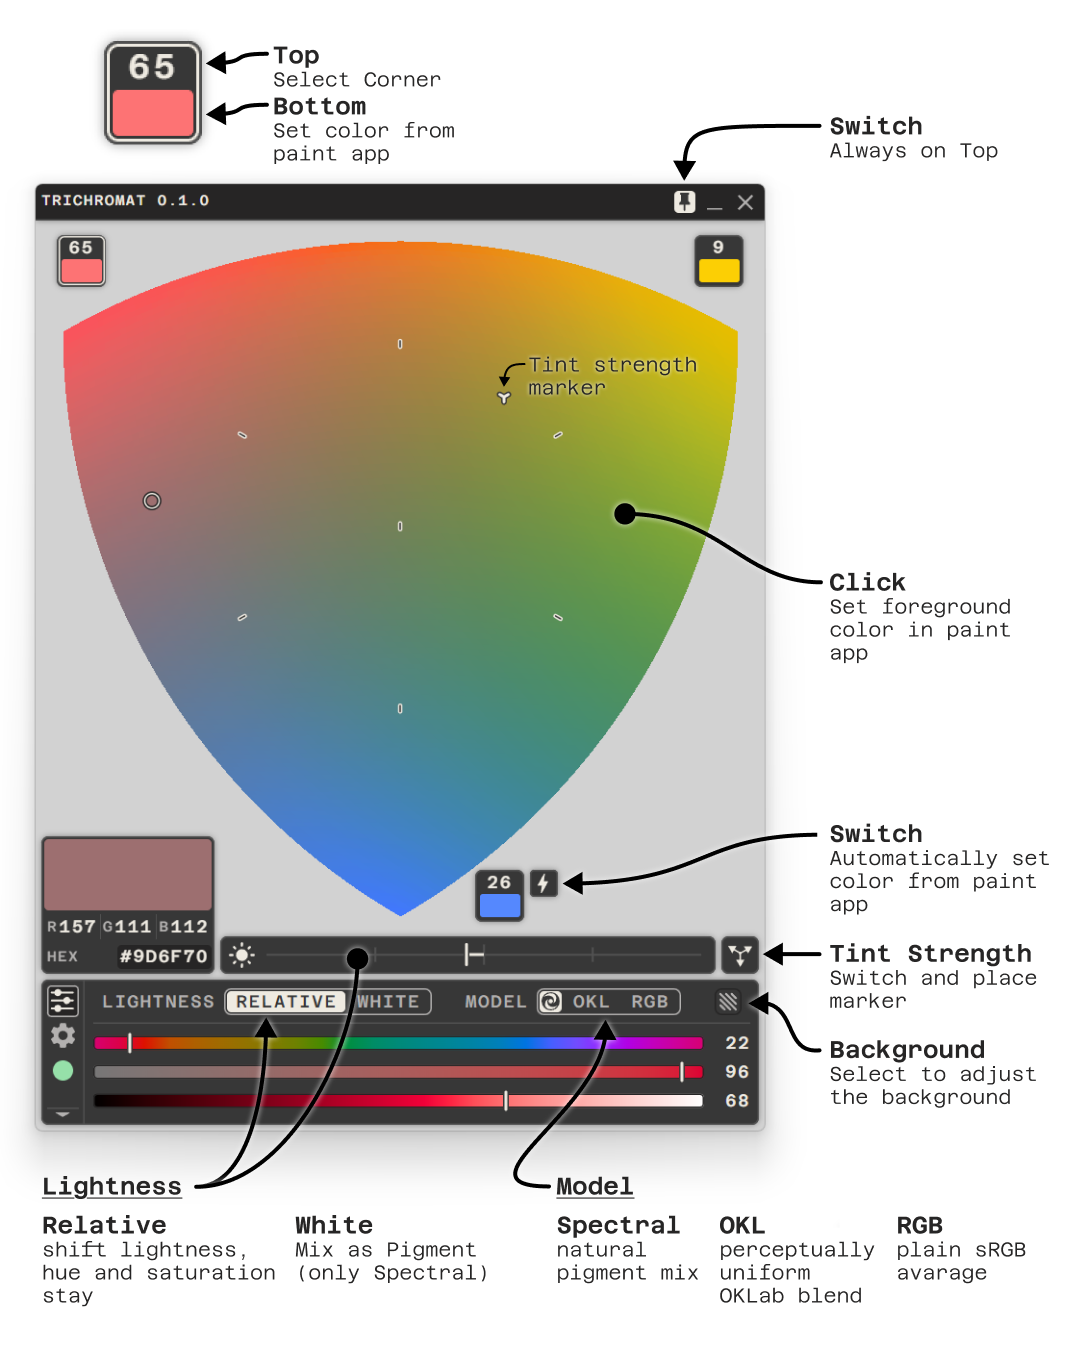
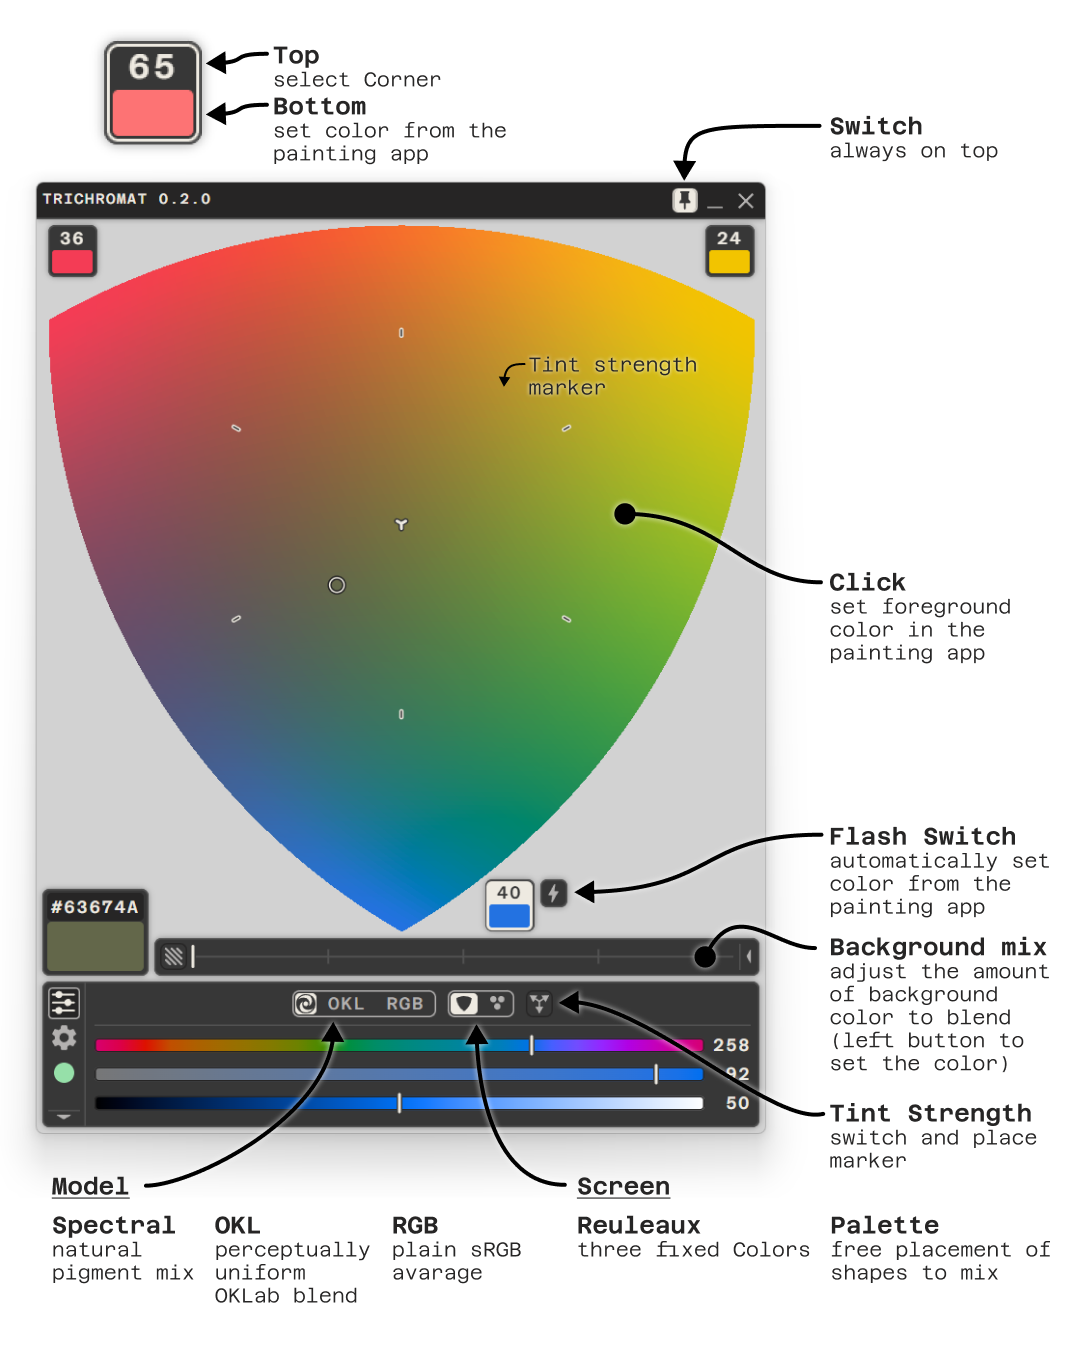
Update README, EULA and privacy for Blender and the palette
The README covers Blender, the palette screen, the background mix and
reinstalling plugins after an update. The EULA names the Krita and
Blender plugins as GPL-3.0-or-later and covers all three painting apps.
New tutorial image for the palette.

diff --git a/README.md b/README.md
@@ -1,13 +1,13 @@
 # Trichromat
-Photoshop or Krita don't blend two colors, they average the RGB values, which wrong for real paint. Halfway between blue and yellow, RGB gives a dull grey. A palette gives green.
+Photoshop, Krita and Blender don't blend two colors the way paint does, they average the RGB values. Halfway between blue and yellow, RGB gives a dull grey. Pigments give green.
 
-The second problem is the shape. Three colors mix over a triangle, and a triangle has a unbalanced middle: its center is twice as far from the corners as from the edges, so the two-color blends along the edges crowd the center while the corners sit far out. Trichromat mixes over a Reuleaux triangle instead. The edges bow outward as arcs. From the same three corners that gives 63 % more mixing area, and the edge blends move out to nearly the same distance from the center as the corners. The field reads evenly, and there is room to pick.
+The second problem is the shape. Three colors mix over a triangle, and a triangle has an unbalanced middle: its center is twice as far from the corners as from the edges, so the two-color blends along the edges crowd the center while the corners sit far out. Trichromat mixes over a Reuleaux triangle instead. The edges bow outward as arcs. From the same three corners that gives 63 % more mixing area, and the edge blends move out to nearly the same distance from the center as the corners. The field reads evenly, and there is room to pick.
 
 <p align="center">
   <img width="800" alt="Features" src="/images/Features with standard.png" />
 </p>
 
-**Trichromat** is a color mixer for Photoshop and Krita. Three colors sit in the corners of a field, every mixture of them lies in between. Click a mixture and it is your foreground color. The app floats above Photoshop or Krita, always on top. Can be switched off. Also works without a painting app: in Solo mode a pick copies the color as HEX.
+**Trichromat** is a color mixer for Photoshop, Krita and Blender. Three colors sit in the corners of a field, every mixture of them lies in between. Click a mixture and it is your foreground color. The app floats above your painting app, always on top. Can be switched off. Also works without a painting app: in Solo mode a pick copies the color as HEX.
 
 ### Mix models
 **Spectral** (Kubelka–Munk, via spectral.js) is the default. Each color is treated as a pigment with a reflectance spectrum, and the mixture is computed from how those pigments absorb and scatter light together. Blue and yellow make green, complementary colors mute each other into browns and greys, and the tint-strength pad lets you decide which pigment dominates.
@@ -16,8 +16,11 @@ The second problem is the shape. Three colors mix over a triangle, and a triangl
 
 **RGB** is the plain sRGB average, the math Photoshop and Krita use when they blend colors by default. It is the reference. Put the same three colors in and you see the muddy middle you have been working around.
 
-### Lightness
-One slider lightens or darkens the whole field. **Relative** shifts the value in OKHSL; hue and saturation stay. **White** mixes white in as a fourth pigment (Spectral only).
+## **Control everything**
+The background color mixes into the field as a fourth color, in every model. One slider sets its share. A white background mixes white in, like adding white paint; a dark one pulls the mix toward dark; any other color tints it. Select the readout and the saturation and light sliders shift all three corners together, relative to where they are.
+
+### Palette
+A second screen next to the field. Place discs and rectangles of color anywhere; where they overlap, they mix, in the same three models. Each shape has its own tint and fades smoothly or in steps.
 
 ## Download and Requirement
 **OS:** <ins>Windows 10/11</ins> or <ins>macOS 12</ins> or newer.
@@ -25,6 +28,8 @@ One slider lightens or darkens the whole field. **Relative** shifts the value in
 **For Photoshop:** <ins>Photoshop 26.2.0</ins> or newer versions required with the <ins>Creative Cloud</ins> desktop app. 
 
 **For Krita:** <ins>Krita 5.2</ins> or newer. Tested on 5.3 and 6.0.
+
+**For Blender:** <ins>Blender 5.0</ins> or newer, in Texture Paint mode.
 
 **Download:** [Get it on Gumroad](https://745191790950.gumroad.com/l/trichromat)
 
@@ -46,7 +51,9 @@ Open the `.dmg` that matches your Mac (`arm64` for Apple Silicon, `x64` for Inte
 
 
 ### 2. The plugin
-The App has to be started once, to be visible for the plugin.
+Start the app once before you install a plugin. The first start registers the link the plugins use to open the app.
+
+Install the plugin for each painting app you use. Each plugin's panel shows its version number, which matches the app's.
 
 #### Photoshop
 Double-click `Trichromat-Bridge.ccx`. The Creative Cloud desktop app installs it and warns that the plugin was not verified by Adobe; **confirm**.
@@ -63,10 +70,19 @@ In Krita choose `Tools → Scripts → Import Python Plugin from File…` and pi
 connection status and an *Open Trichromat* button. The connection works
 without the docker open.
 
-<img width="300" alt="krita anstallation" src="/images/krita install 1.png" />
+<img width="300" alt="Krita installation" src="/images/krita install 1.png" />
 
-If its not visible go to`Settings → Configure Krita → Python Plugin Manager`, tick **Trichromat
-Bridge**.
+If it's not visible, go to `Settings → Configure Krita → Python Plugin Manager`, tick **Trichromat
+Bridge** and restart Krita once more.
+
+#### Blender
+In Blender drag the `.zip` file into the viewport or open `Edit → Preferences → Add-ons`, click the arrow menu at the top right, choose
+`Install from Disk…` and pick `Trichromat-Blender-<version>.zip` from the download. It is
+enabled right away.
+
+Switch to Texture Paint, press `N` and open the *Trichromat* tab in the sidebar. It reads
+*Connected to Trichromat* once the app is running; if it is not, the tab's *Open Trichromat*
+button starts it. A pick sets the Texture Paint color.
 
 ### 3. Activate
 
@@ -76,43 +92,56 @@ the app, then *Activate*. Activation needs an internet connection once; afterwar
 re-checks the key in the background from time to time.
 
 ### Updates
-The app checks for a new version on start and shows it on the settings page.
+The app checks for a new version on start and shows **UPDATE** in the title bar.
 Download the new build from your [Gumroad library](https://gumroad.com/library) and run the installer over
-the old one. 
+the old one. If the [changelog](CHANGELOG.md) says a plugin changed, install it again from the new
+download, the same way as the first time. In Blender, *Install from Disk…* replaces the old version.
 
 ## Guide
 
 <p align="center">
-  <img width="600" alt="krita anstallation" src="/images/Tutorial.png" />
+  <img width="600" alt="Guide" src="/images/Tutorial.png" />
 </p>
 
 
 ### Color Field
 
 Click anywhere in the field to pick a color. While Trichromat is linked to
-Photoshop or Krita, the picked color becomes the foreground color; hold **Alt**
-while clicking to set the background color instead. You can also drag: the
+Photoshop, Krita or Blender, the picked color becomes the foreground color; hold **Alt**
+(**Option** on a Mac) while clicking to set the background color instead. You can also drag: the
 color is sent when you release.
 
-### Color Corner
+### Corners
 
-The three corner are your palette. Each corner has two halves. Click the **bottom
-half** (the swatch) to load the current foreground color from Photoshop or
-Krita into that. Click the **top half** (the letter) to select it.
+The three corners A, B and C hold the colors you mix. Each corner has a chip
+with two parts. The **number** shows how much of that corner is in the picked
+color; click it to select the corner. Click the **swatch** to load the current
+foreground color from your painting app into that corner.
 
 #### Sliders
-The sliders edit the selected corner for hue, saturation and lightness directly.
+HUE, SAT and LIGHT edit whatever is selected: a corner, the background or a
+shape on the palette. 
 
 #### Flash Icon
-The bottom corner carries a **flash** icon. Switch it on and every color you pick in your painting app is written into this automatically.
+Corner C carries a **flash** icon. Switch it on and every color you pick in your
+painting app is written into C automatically. 
 
-### Readout & Solo mode
+### Readout
 
-The readout shows the picked color with its HEX and RGB values. Click the HEX
-value to copy it to the clipboard.
+The readout under the field shows the color under the selector with its HEX
+value. Click the HEX value to copy it to the clipboard.
 
-Trichromat also works without a painting app. In **Solo mode** a click in the field copies the hex directly, and the readout swatch becomes selectable: click
-it to fine-tune the picked color with the sliders. If you would rather keep your clipboard, switch *Solo mode: copy HEX to clipboard on click* off on the settings page; clicking the HEX value still copies it. While you do that, the selector ring in the field disappears, because the tweaked color is no longer a point in the field. Click in the field to bring it back.
+Click the readout's swatch to select it. SAT and LIGHT then shift the whole mix:
+all three corners, or every shape on the palette, move together, relative to
+where they are.
+
+### Solo mode
+
+Trichromat also works without a painting app. In **Solo mode** a click in the
+field copies the HEX directly, and a corner's swatch loads the readout's color
+into that corner. If you would rather keep your clipboard, switch
+*COPY HEX TO CLIPBOARD IN SOLO MODE* off on the settings page; clicking the HEX
+value still copies it.
 
 ### Model
 
@@ -123,27 +152,49 @@ it to fine-tune the picked color with the sliders. If you would rather keep your
 - **RGB** is the plain sRGB average, the same limited blend most other software
   does.
 
-### Lightness
+### Background mix
 
-The slider lightens or darkens the entire field at once. **Relative** shifts
-the lightness of the mixed colors while hue and saturation stay, and it works
-in both directions. **White**, available in Spectral, adds white as a pigment
-to the mix.
+The row next to the readout mixes the background, the color around the field,
+into the mix as a fourth color. The slider sets its share: at 0 you mix the
+three corners alone, at 100 you get the background itself.
+
+Click the icon left of the slider to edit the background color with HUE, SAT and LIGHT.
 
 ### Tint strength
 
-Not every pigment is equally strong. Turn on the tint control and drag the dot
-to change the relative strength of the three pigments. The center is
-neutral. Alt-click the button to reset.
+Not every pigment is equally strong. Turn on the tint-strength button and drag
+the marker in the field to change the relative strength of the three pigments:
+toward a corner weakens that corner. The center is neutral. Alt-click the
+button to reset.
 
-### Background
+### Palette
 
-Switch the button and the sliders edit the color around the field instead
-of a corner.
+The screen switch next to the model buttons swaps the field for the
+**palette**: a free surface where each color is a shape, and shapes mix where
+they overlap.
 
+- **+** adds a shape at the selector, in your foreground color. The disc / rectangle switch next to it sets
+  the kind.
+- **Fill** (the bucket) loads the foreground color into the selected shape.
+- Select a shape's center dot to move it. A **disc** is full color at
+  its center and fades to its rim; drag the rim to resize it. A **rectangle** is
+  a ramp: full color at one end, fading toward the other. Drag the handle on its
+  side to change the width, the one at its fading end to make it longer or
+  shorter and to turn it in 30° steps.
+- **TINT** sets how strongly the selected shape's color shows. Turned down, the
+  shape becomes a glaze. **SMOOTH** splits the fade into 2 to 16 bands; MAX is a
+  smooth fade.
+- The red **×** at a selected shape's center removes it.
+
+The models, the background mix and the readout's SAT / LIGHT shift work on the
+palette too.
+
+<p align="center">
+  <img width="600" alt="Guide" src="/images/Tutorial Palette.png" />
+</p>
 ### Connection
 
-The connection page switches between **LINKED** (talking to Photoshop or Krita)
+The connection page switches between **LINKED** (talking to your painting app)
 and **SOLO** (standalone). The status dot tells you where you are:
 
 - **Green**: linked to a painting app.
@@ -153,11 +204,19 @@ and **SOLO** (standalone). The status dot tells you where you are:
 - **Blue**: Solo mode. Trichromat is not searching for an app; picks go to
   the clipboard and the flash and load-from-app functions are off.
 
+#### Multiple painting apps at once
+
+With more than one painting app connected, Trichromat talks to the one whose
+plugin connected last. To switch, click *Reconnect* in the Trichromat Bridge
+panel of the app you want. Switch on *SEND COLORS TO ALL CONNECTED APPS* on the
+settings page and every color you send reaches all connected apps. Loading a
+corner and the flash still read from the active one.
+
 ## Reporting problems or ideas
 
 Open an issue in this repository and use the report template. Please
-include for a bug the app version (settings page), your OS, your Photoshop or
-Krita version, and what you did before it went wrong. Screenshots of the connection page help.
+include for a bug the app version (settings page), your OS, your Photoshop,
+Krita or Blender version, and what you did before it went wrong. Screenshots of the connection page help.
 You can contact me directly: [trichromat@lukashefti.ch]()
 
 ## Privacy
@@ -168,7 +227,11 @@ your computer. See [PRIVACY.md](PRIVACY.md).
 
 ## License
 
-Trichromat is proprietary software licensed under the [EULA](EULA.md). Adobe
+The Trichromat app and the Photoshop plugin are proprietary software licensed
+under the [EULA](EULA.md). The Krita and Blender plugins are free software under
+the GNU General Public License, version 3 or later; the license text ships in
+each plugin as `LICENSE.txt`. Adobe
 and Photoshop are trademarks of Adobe Inc.; Krita is a trademark of the Krita
-Foundation (Stichting Krita). Trichromat is an independent product and is not
-affiliated with Adobe or the Krita Foundation.
+Foundation (Stichting Krita); Blender is a trademark of the Blender Foundation.
+Trichromat is an independent product and is not affiliated with Adobe, the
+Krita Foundation or the Blender Foundation.

diff --git a/EULA.md b/EULA.md
@@ -1,12 +1,20 @@
 TRICHROMAT END USER LICENSE AGREEMENT
 
-Last updated: 2026-09-09
+Last updated: 2026-11-10
 
 This End User License Agreement ("Agreement") is between you ("you") and
 Lukas Hefti ("Licensor") and governs your use of the Trichromat desktop
 application and the Trichromat Bridge plugin for Adobe Photoshop (together,
 the "Software"). By installing, activating or using the Software you agree
 to this Agreement. If you do not agree, do not install or use the Software.
+
+The Trichromat Bridge plugins for Krita and for Blender are not part of the
+Software. They are free software, licensed under the GNU General Public
+License, version 3 or later; the license text ships with each plugin as
+LICENSE.txt, and that license alone governs your use, copying, modification
+and distribution of them. It grants no rights to the Software: the plugins
+and the desktop application are separate programs that communicate over a
+connection on your own computer.
 
 1. LICENSE GRANT
 Subject to this Agreement and to a valid license key, Licensor grants you a
@@ -42,8 +50,8 @@ verification service when you activate it and periodically afterwards. The
 license key and basic purchase status are exchanged for that purpose. The
 Software also checks online whether a newer version is available by
 downloading a small version file. No colors, documents or other content are
-transmitted. Photoshop is reached only over a connection on your own
-computer.
+transmitted. Photoshop, Krita and Blender are reached only over a connection
+on your own computer.
 
 6. UPDATES
 Licensor may provide updates at its discretion. Updates are covered by this
@@ -59,8 +67,9 @@ termination you must stop using the Software and delete all copies.
 THE SOFTWARE IS PROVIDED "AS IS" WITHOUT WARRANTY OF ANY KIND, EXPRESS OR
 IMPLIED, INCLUDING WITHOUT LIMITATION WARRANTIES OF MERCHANTABILITY, FITNESS
 FOR A PARTICULAR PURPOSE AND NON-INFRINGEMENT. Color output depends on your
-display, calibration and Photoshop color settings; Licensor does not warrant
-that mixed colors match physical paints or any printed result.
+display, calibration and the color settings of your painting application;
+Licensor does not warrant that mixed colors match physical paints or any
+printed result.
 
 9. LIMITATION OF LIABILITY
 TO THE MAXIMUM EXTENT PERMITTED BY LAW, LICENSOR IS NOT LIABLE FOR ANY
@@ -70,10 +79,13 @@ SOFTWARE. LICENSOR'S TOTAL LIABILITY UNDER THIS AGREEMENT SHALL NOT EXCEED
 THE AMOUNT YOU PAID FOR THE SOFTWARE. Mandatory liability under applicable
 law, in particular for intent and gross negligence, remains unaffected.
 
-10. ADOBE
-Adobe and Photoshop are trademarks of Adobe Inc. Trichromat is an
-independent product and is not affiliated with, endorsed by or sponsored by
-Adobe Inc. Your use of Photoshop is governed by Adobe's own terms.
+10. TRADEMARKS
+Adobe and Photoshop are trademarks of Adobe Inc. Krita is a trademark of
+the Krita Foundation (Stichting Krita). Blender is a trademark of the
+Blender Foundation. Trichromat is an independent product and is not
+affiliated with, endorsed by or sponsored by Adobe Inc., the Krita
+Foundation or the Blender Foundation. Your use of Photoshop, Krita and
+Blender is governed by their own terms.
 
 11. GOVERNING LAW
 This Agreement is governed by the laws of Switzerland, excluding its

diff --git a/PRIVACY.md b/PRIVACY.md
@@ -1,6 +1,6 @@
 # Privacy
 
-Last updated: 2026-09-09
+Last updated: 2026-11-10
 
 Trichromat is a desktop application. It does not have user accounts and it
 does not collect analytics.
@@ -19,8 +19,11 @@ does not collect analytics.
 ## What stays on your computer
 
 Colors, documents, palettes, settings and the license key itself are stored
-locally only. The app and the Photoshop plugin talk over a connection on
-your own machine (`localhost`) and never over the network.
+locally only. The app and its plugins for Photoshop, Krita and Blender talk
+over a connection on your own machine (`localhost`) and never over the
+network. The plugins send nothing anywhere else. Blender lists the
+extension as using the network: that permission covers only this local
+connection.
 
 ## Contact
 
